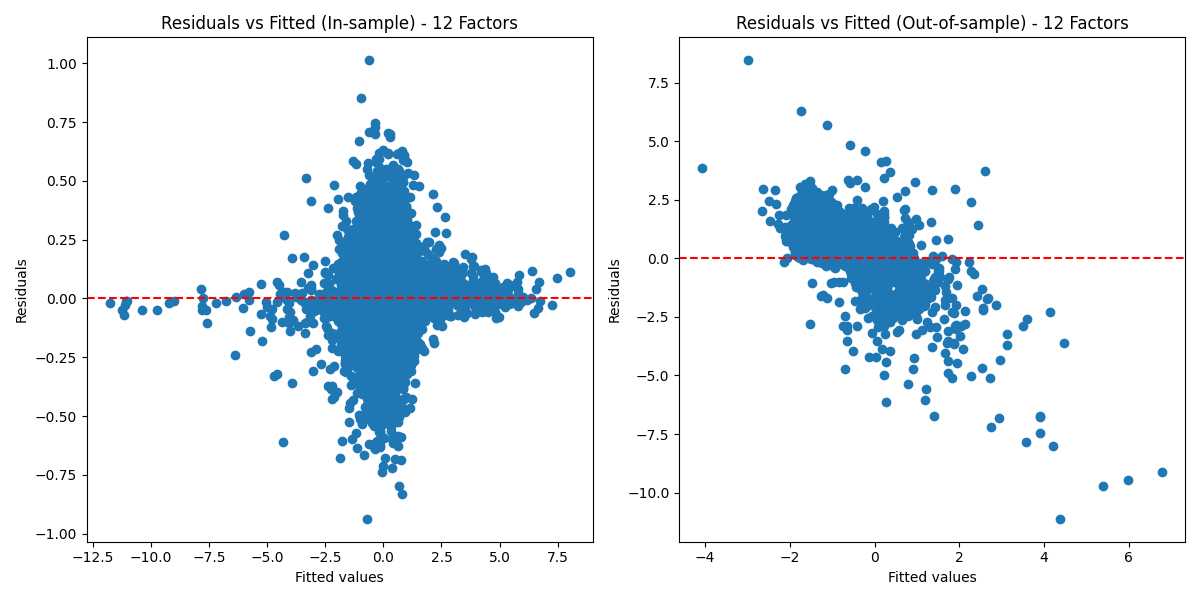
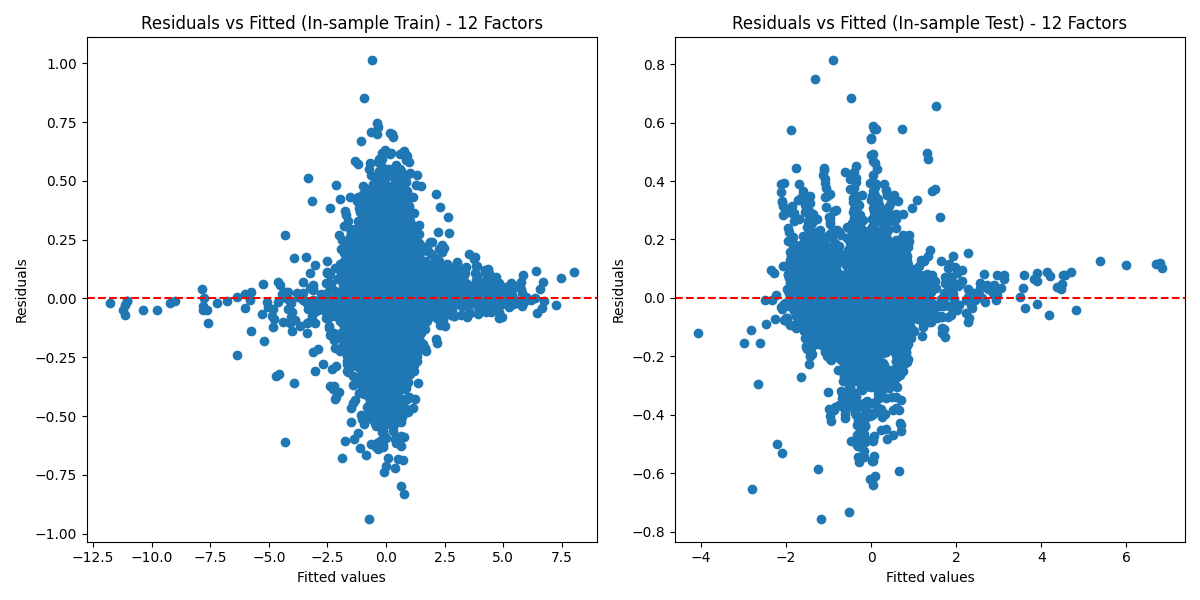
mainPCAstatic aangepast met goede test-train- validate splits.

diff --git a/mainPCAstatic.py b/mainPCAstatic.py
@@ -20,19 +20,17 @@ filtered_df = filter_data(df_data)
 # Save variable names
 variable_names = filtered_df.index.tolist()
 
-# Define validation date and split the data
-DATE_VALIDATE = pd.Period('2020-01', freq='M')
-if DATE_VALIDATE in filtered_df.columns:
-    date_index = filtered_df.columns.get_loc(DATE_VALIDATE)
-else:
-    raise ValueError(f"Date {DATE_VALIDATE} not found in the columns of the dataframe")
+# Define training and validation periods and split the data
+DATE_TRAIN_END = pd.Period('2019-12', freq='M')
+DATE_VALIDATE_START = pd.Period('2020-01', freq='M')
+DATE_VALIDATE_END = pd.Period('2023-11', freq='M')
 
-# Prepare training data until 2019-12, Validation from 2020-01 to 2023-11 (47 months)
-Y_train_PCA = filtered_df.iloc[:, :date_index]
-Y_validate = filtered_df.iloc[:, date_index:date_index + 47]
+# Split the data into training and validation sets
+Y_train = filtered_df.loc[:, :DATE_TRAIN_END]  # Data until 2019-12
+Y_validate = filtered_df.loc[:, DATE_VALIDATE_START:DATE_VALIDATE_END]  # Data from 2020-01 to 2023-11
 
 # Standardize the datasets
-Y_train_std = standardize(Y_train_PCA.values.T).T
+Y_train_std = standardize(Y_train.values.T).T
 Y_validate_std = standardize(Y_validate.values.T).T
 
 # Define the range of factors to test
@@ -45,7 +43,7 @@ for num_factors in factor_range:
     print(f"\nEvaluating model with {num_factors} factors")
 
     # Initialize the dynamic factor model
-    model = DynamicFactorModel(filtered_df, num_factors)
+    model = DynamicFactorModel(Y_train, num_factors)  # Use only the training set here
     
     # Fit the Dynamic Factor Model and apply PCA
     model.std_data = Y_train_std.T
@@ -54,14 +52,14 @@ for num_factors in factor_range:
     # Estimate the Yule-Walker equations
     model.yw_estimation()
 
-    # Prepare training and validation data for ElasticNet
+    # Use 80% of the training data for training and 20% for testing
     train_split_index = int(model.factors.shape[1] * 0.8)
 
-    data_train = Y_train_std[:, :train_split_index].T
+    data_train = Y_train_std[:, :train_split_index].T  # 80% of training data
     fac_train = model.factors[:, :train_split_index].T
 
-    data_validate = Y_validate_std.T
-    fac_validate = model.factors[:, train_split_index:train_split_index + 47].T
+    data_test = Y_train_std[:, train_split_index:].T  # 20% of training data
+    fac_test = model.factors[:, train_split_index:].T
 
     # Fit ElasticNet model
     B_matrix, r2_insample, intercept = model.enet_fit(data_train, fac_train)
@@ -69,17 +67,17 @@ for num_factors in factor_range:
     # Validate model on in-sample data
     y_hat_train = model.enet_predict(fac_train)
 
-    # Validate model on out-of-sample data
-    y_hat_validate = model.enet_predict(fac_validate)
+    # Validate model on in-sample test data
+    y_hat_test = model.enet_predict(fac_test)
 
     # Calculate residuals
     residuals_train = data_train - y_hat_train
-    residuals_validate = data_validate - y_hat_validate
+    residuals_test = data_test - y_hat_test
 
-    # Calculate RMSE and R² for validation data
+    # Calculate RMSE and R² for in-sample and test data
     rmse_value_in_sample = RMSE(data_train, y_hat_train)
-    rmse_value_out_sample = RMSE(data_validate, y_hat_validate)
-    r2_out_sample = calculate_r2(data_validate, y_hat_validate)
+    rmse_value_test_sample = RMSE(data_test, y_hat_test)
+    r2_test_sample = calculate_r2(data_test, y_hat_test)
     
     # Calculate log-likelihood, AIC, and BIC
     log_like_value = log_likelihood(data_train, y_hat_train)
@@ -87,11 +85,11 @@ for num_factors in factor_range:
 
     # Calculate adjusted R²
     adj_r2_in_sample = adjusted_r2(r2_insample, data_train.shape[0], num_factors)
-    adj_r2_out_sample = adjusted_r2(r2_out_sample, data_validate.shape[0], num_factors)
+    adj_r2_test_sample = adjusted_r2(r2_test_sample, data_test.shape[0], num_factors)
 
     # Average RMSE values across variables
     avg_rmse_in_sample = rmse_value_in_sample.mean()
-    avg_rmse_out_sample = rmse_value_out_sample.mean()
+    avg_rmse_test_sample = rmse_value_test_sample.mean()
 
     # Append the results to the list
     results.append({
@@ -99,9 +97,9 @@ for num_factors in factor_range:
         'RMSE_InSample': avg_rmse_in_sample,
         'R2_InSample': r2_insample,
         'Adjusted_R2_InSample': adj_r2_in_sample,
-        'RMSE_OutSample': avg_rmse_out_sample,
-        'R2_OutSample': r2_out_sample,
-        'Adjusted_R2_OutSample': adj_r2_out_sample,
+        'RMSE_TestSample': avg_rmse_test_sample,
+        'R2_TestSample': r2_test_sample,
+        'Adjusted_R2_TestSample': adj_r2_test_sample,
         'Log_Likelihood': log_like_value,
         'AIC': aic_value,
         'BIC': bic_value
@@ -111,14 +109,14 @@ for num_factors in factor_range:
     plt.figure(figsize=(12, 6))
     plt.subplot(1, 2, 1)
     plt.scatter(y_hat_train.flatten(), residuals_train.flatten())
-    plt.title(f'Residuals vs Fitted (In-sample) - {num_factors} Factors')
+    plt.title(f'Residuals vs Fitted (In-sample Train) - {num_factors} Factors')
     plt.xlabel('Fitted values')
     plt.ylabel('Residuals')
     plt.axhline(0, color='red', linestyle='--')
 
     plt.subplot(1, 2, 2)
-    plt.scatter(y_hat_validate.flatten(), residuals_validate.flatten())
-    plt.title(f'Residuals vs Fitted (Out-of-sample) - {num_factors} Factors')
+    plt.scatter(y_hat_test.flatten(), residuals_test.flatten())
+    plt.title(f'Residuals vs Fitted (In-sample Test) - {num_factors} Factors')
     plt.xlabel('Fitted values')
     plt.ylabel('Residuals')
     plt.axhline(0, color='red', linestyle='--')

diff --git a/factor_model.py b/factor_model.py
@@ -130,7 +130,7 @@ class DynamicFactorModel:
         """
         Forecast future factors based on the estimated Yule-Walker parameters.
         """
-        future_date = pd.to_datetime(future_date, format='%d/%m/%Y').to_period('M')
+        future_date = pd.to_datetime(future_date, format='%Y-%m').to_period('M')
         current_date = self.df_data.columns[-1]
         if future_date <= current_date:
             raise ValueError("The future date must be later than the last date in the data.")
